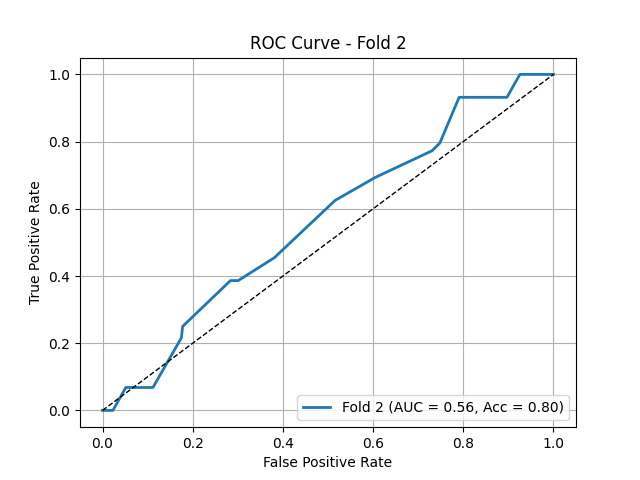
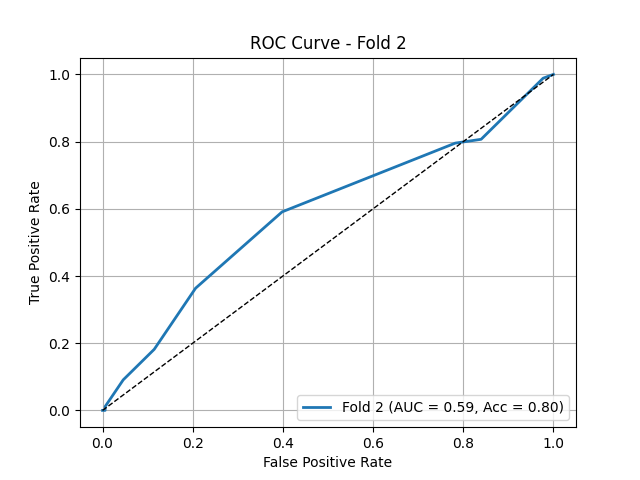
4 layers lr lower

diff --git a/train_so2_thb.py b/train_so2_thb.py
@@ -98,10 +98,11 @@ for fold in range(k_fold):
     # Model
     #model = MultiClassificationTorch_Imagenet(num_classes= 1, backbone_name= 'resnet18').to(device)
     #model = MultiModalCancerClassifierWithAttention(num_modalities=2, out_dim=1, fusion_dim=64, backbone_name='resnet18', dropout_prob=0.3).to(device)
-    model = MultiModalTransformerClassifier(num_classes=1, img_size = 448, patch_size= 64).to(device) #)
+    model = MultiModalTransformerClassifier(num_classes=1, img_size = 448, patch_size= 32, num_layers = 4).to(device) #)
     #optimizer = torch.optim.Adam(model.parameters(), lr=5e-5, weight_decay=1e-5)
-    optimizer = torch.optim.AdamW(model.parameters(), lr=5e-4, weight_decay=1e-2)
-    scheduler = ExponentialLR(optimizer=optimizer, gamma=0.9) #CosineAnnealingWarmRestarts(optimizer, T_0=10, T_mult=2, eta_min=1e-6)
+    optimizer = torch.optim.AdamW(model.parameters(), lr=5e-6, weight_decay=1e-2)
+    #scheduler = ExponentialLR(optimizer=optimizer, gamma=0.9) #
+    scheduler = CosineAnnealingWarmRestarts(optimizer, T_0=10, T_mult=2, eta_min=1e-6)
 
     best_val_auc = -1
     best_combined_score = -1 
@@ -128,11 +129,11 @@ for fold in range(k_fold):
             loss.backward()
             optimizer.step()
             optimizer.step()
-            #scheduler.step(epoch + batch_idx / len(train_loader))
+            scheduler.step(epoch + batch_idx / len(train_loader))
             epoch_loss += loss.item()
 
         avg_train_loss = epoch_loss / len(train_loader)
-        scheduler.step()
+        #scheduler.step()
         wandb.log({f"train/loss_fold_{fold}": avg_train_loss, "epoch": epoch})
         current_lr = scheduler.get_last_lr()[0]
         wandb.log({f"train/lr_fold_{fold}": current_lr, "epoch": epoch})

diff --git a/fusion_models.py b/fusion_models.py
@@ -443,7 +443,7 @@ class MultiModalTransformerClassifier(nn.Module):
         # Modality-specific CNNs (or lightweight ViTs if pretrained available)
         self.so2_cnn = nn.Conv2d(1, embed_dim, kernel_size=patch_size, stride=patch_size)
         self.thb_cnn = nn.Conv2d(1, embed_dim, kernel_size=patch_size, stride=patch_size)
-        self.us_cnn  = nn.Conv2d(1, embed_dim, kernel_size=patch_size, stride=patch_size)
+        #self.us_cnn  = nn.Conv2d(1, embed_dim, kernel_size=patch_size, stride=patch_size)
         
         # CLS token (shared)
         self.cls_token = nn.Parameter(torch.randn(1, 1, embed_dim))
